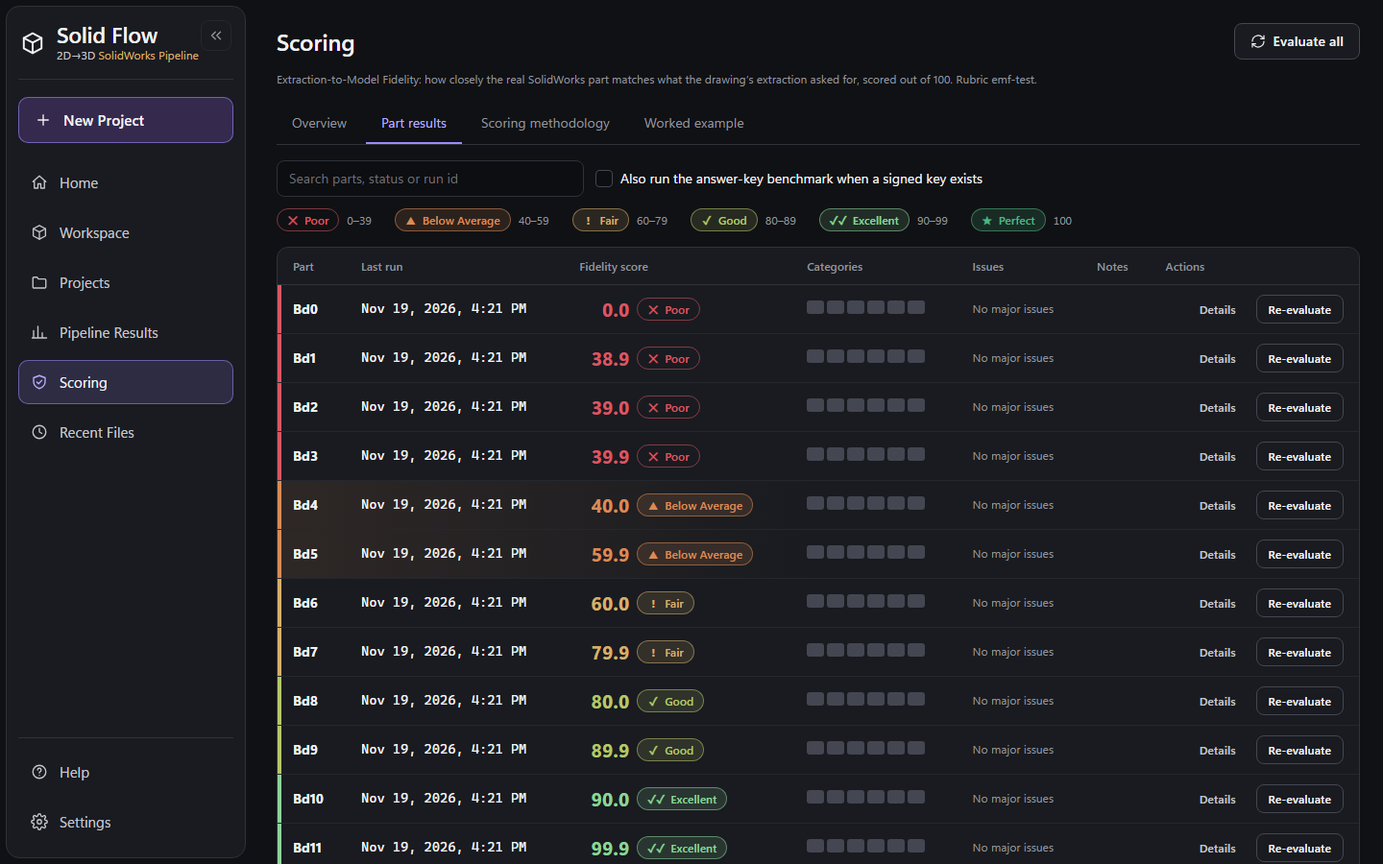
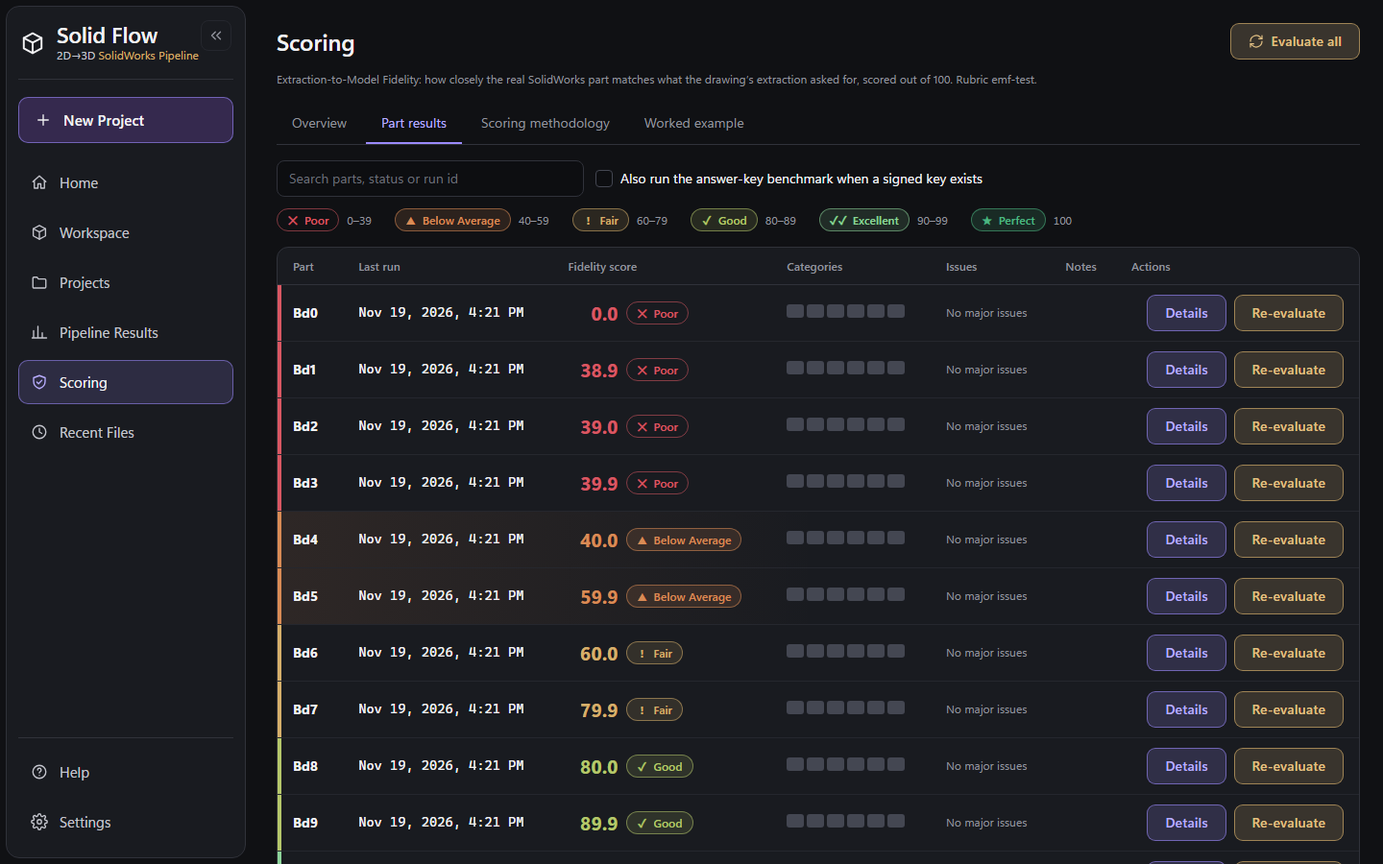
feat(ui): always-fresh UI assets, grade-coloured numbers everywhere, larger violet/gold action buttons
- server: index.html stamps every /static URL with ?v=<fingerprint> and /, /static, /photoapp are sent Cache-Control: no-cache (the likely reason new colours did not show: an old cached stylesheet)
- Scoring overview numbers (parts scored, average, need attention, not scored), worked-example scores and credit-curve values now take grade colours
- Open / Open in Workspace / Results / Details / Evaluate / Re-evaluate / Evaluate all: larger (38px), violet (Open, Details) and champagne-gold tint (Results, Evaluate) with a small hover lift
- a11y: file-presence chips now AA; unavailable-preview button name contains its visible text
- tests: server stale-UI test; browser 28-v4-buttons-and-number-colour (4); Projects order test waits for the cards

diff --git a/FINAL_UI/tests/e2e/tests/28-v4-buttons-and-number-colour.spec.ts b/FINAL_UI/tests/e2e/tests/28-v4-buttons-and-number-colour.spec.ts
@@ -1,0 +1,131 @@
+import { test, expect } from '@playwright/test';
+import AxeBuilder from '@axe-core/playwright';
+import * as fs from 'fs';
+import * as path from 'path';
+import { STAGE2_OUT, uniq } from '../helpers/stage3';
+
+test.skip(!STAGE2_OUT, 'STAGE2_OUT not set: start the server with MCAGENT_FINAL_OUTPUTS=$STAGE2_OUT and export STAGE2_OUT');
+
+const VERIFY = path.resolve(__dirname, '../../../docs/verification/v4');
+const serious = (res: any) => res.violations.filter((v: any) => v.impact === 'serious' || v.impact === 'critical');
+const shot = async (page: any, name: string) => { fs.mkdirSync(VERIFY, { recursive: true }); await page.screenshot({ path: path.join(VERIFY, name) }); };
+const GRADE_RGB = ['rgb(217, 87, 99)', 'rgb(217, 139, 85)', 'rgb(214, 175, 107)', 'rgb(181, 199, 107)', 'rgb(141, 212, 154)', 'rgb(76, 183, 130)'];
+const NEUTRAL = 'rgb(146, 148, 158)';
+const WHITE_TEXT = 'rgb(242, 242, 244)';
+
+function row(part: string, score: number | null, state = 'scored') {
+  return { part, session: '', has_output: true, has_part: true, run_id: 'run_x', last_activity: 1795123302, state, score, reason: state === 'incomplete' ? 'no_mesh' : undefined, counts: { critical: part === 'P6' ? 1 : 0, high: 0 },
+    categories: {}, evaluated_at: '2026-11-25T10:00:00+00:00', fingerprint: 'emf-test', coverage: 1, caps: [], top_issue: 'A mocked issue message' };
+}
+async function mockScoring(page: any, rows: any[]) {
+  const scored = rows.filter((r) => r.state === 'scored' && r.score !== null);
+  await page.route('**/api/scoring', (route: any) => route.fulfill({ json: { version: 'emf-test', rubric: 'Extraction-to-Model Fidelity', bands: [], parts: rows,
+    summary: { parts: rows.length, scored: scored.length, average: scored.reduce((a: number, r: any) => a + r.score, 0) / Math.max(1, scored.length), distribution: {}, incomplete: rows.filter((r) => r.state === 'incomplete').length,
+      no_model: 0, scoring_failed: 0, pending: 0, parts_with_critical: 1 } } }));
+}
+async function boot(page: any, request: any) {
+  const session = (await (await request.post('/api/session')).json()).session as string;
+  await page.goto('/#/home');
+  await page.waitForFunction(() => !!(window as any).McA);
+  await page.evaluate((sid: string) => (window as any).McA.persist.set((window as any).McA.persist.KEYS.session, sid), session);
+  return session;
+}
+const colour = (loc: any) => loc.evaluate((e: HTMLElement) => getComputedStyle(e).color);
+
+test.describe('v4: numbers and buttons', () => {
+  test('84 every number on the Scoring overview takes a grade colour, and so do the worked-example scores and the credit curve', async ({ page, request }) => {
+    await page.setViewportSize({ width: 1440, height: 900 });
+    await mockScoring(page, [row('P1', 100), row('P2', 95), row('P3', 85), row('P4', 65), row('P5', 45), row('P6', 10), row('P7', null, 'incomplete')]);
+    await boot(page, request);
+    await page.goto('/#/scoring'); await page.reload();
+    const stats = page.locator('.sc-stat .sc-stat-v');
+    await expect(stats).toHaveCount(5, { timeout: 15_000 });
+    for (let i = 0; i < 4; i++) {
+      const c = await colour(stats.nth(i));
+      expect(c, `overview number ${i}`).not.toBe(WHITE_TEXT);                                        // never plain white
+      expect([...GRADE_RGB, NEUTRAL], `overview number ${i}`).toContain(c);
+    }
+    await expect(page.locator('.sc-attn li .sc-score-n').first()).toBeVisible();
+    for (const c of await page.locator('.sc-attn li .sc-score-n').evaluateAll((els) => els.map((e) => getComputedStyle(e).color))) expect(GRADE_RGB).toContain(c);
+    await shot(page, 'overview-numbers-1440x900.png');
+    await page.getByRole('tab', { name: 'Worked example' }).click();
+    const scores = page.locator('.sc-example .sc-ex-s');
+    await expect(scores).toHaveCount(6, { timeout: 15_000 });
+    for (const c of await scores.evaluateAll((els) => els.map((e) => getComputedStyle(e).color))) expect(GRADE_RGB).toContain(c);
+    for (const c of await page.locator('.sc-example .cr').evaluateAll((els) => els.map((e) => getComputedStyle(e).color))) expect(GRADE_RGB).toContain(c);
+    await shot(page, 'example-numbers-1440x900.png');
+    await page.getByRole('tab', { name: 'Scoring methodology' }).click();
+    const curve = page.locator('.sc-method .cr-curve');
+    await expect(curve).toHaveCount(6, { timeout: 15_000 });
+    for (const c of await curve.evaluateAll((els) => els.map((e) => getComputedStyle(e).color))) expect(GRADE_RGB).toContain(c);
+    expect(serious(await new AxeBuilder({ page }).include('#page-scoring').analyze())).toEqual([]);
+  });
+
+  test('85 the part results table: coloured fidelity scores and larger Details / Re-evaluate buttons that stand out', async ({ page, request }) => {
+    await page.setViewportSize({ width: 1440, height: 900 });
+    await mockScoring(page, [row('P1', 93.4), row('P2', 43.6), row('P3', 70.3)]);
+    await boot(page, request);
+    await page.goto('/#/scoring'); await page.reload();
+    await page.getByRole('tab', { name: 'Part results' }).click();
+    const tr = page.locator('.sc-tbl tr', { has: page.locator('strong', { hasText: /^P1$/ }) });
+    await expect(tr.locator('.sc-score-n')).toHaveText('93.4');
+    expect(GRADE_RGB).toContain(await colour(tr.locator('.sc-score-n')));
+    const details = tr.getByRole('button', { name: 'Details' }), evalBtn = tr.getByRole('button', { name: 'Re-evaluate' });
+    for (const b of [details, evalBtn]) {
+      const box = (await b.boundingBox())!;
+      expect(box.height, 'larger than the old 30px small button').toBeGreaterThanOrEqual(38);
+      const bg = await b.evaluate((e: HTMLElement) => getComputedStyle(e).backgroundColor);
+      expect(bg).not.toBe('rgba(0, 0, 0, 0)');
+    }
+    // Details is violet, Re-evaluate is champagne gold: same families as Save part and Run Pipeline
+    expect(await colour(details)).not.toBe(await colour(evalBtn));
+    const bd = await details.evaluate((e: HTMLElement) => getComputedStyle(e).borderTopColor), be = await evalBtn.evaluate((e: HTMLElement) => getComputedStyle(e).borderTopColor);
+    expect(bd).not.toBe(be);                                                                              // two different tinted borders (violet and gold), not the plain grey outline
+    for (const b of [bd, be]) expect(b).not.toMatch(/rgba?\(4[0-9], 5[0-9], 6[0-9]\)|rgb\(68, 71, 82\)/);
+    expect(bd).toMatch(/srgb 0\.6/);                                                                      // the violet family (#9B8AFB at 60%)
+    expect(be).toMatch(/srgb 0\.8/);                                                                      // the gold family (#D6AF6B at 65%)
+    await details.hover();
+    await expect(details).toHaveCSS('transform', /matrix/);                                              // a small lift on hover
+    await shot(page, 'results-buttons-1440x900.png');
+    expect(serious(await new AxeBuilder({ page }).include('#page-scoring').analyze())).toEqual([]);
+  });
+
+  test('86 Projects: Open is solid violet like Save part, Results is gold-tinted, both larger; Details and Evaluate-all match', async ({ page, request }) => {
+    await page.setViewportSize({ width: 1440, height: 900 });
+    const part = 'Bt' + uniq();
+    const session = await boot(page, request);
+    await request.post('/api/parts', { multipart: { session, part, original: { name: 'd.pdf', mimeType: 'application/pdf', buffer: Buffer.from('%PDF-1.4 x') } } });
+    const out = path.join(STAGE2_OUT, part); fs.mkdirSync(out, { recursive: true });
+    fs.writeFileSync(path.join(out, `${part}_extraction.json`), JSON.stringify({ units: 'inch', features: [], dimensions: [], hole_callouts: [] }));
+    await page.goto('/#/projects'); await page.reload();
+    const card = page.locator('#proj-body .pcard', { has: page.locator('.pcard-n', { hasText: new RegExp('^' + part + '$') }) });
+    const open = card.getByRole('button', { name: 'Open', exact: true }), results = card.getByRole('button', { name: 'Results', exact: true });
+    await expect(open).toBeVisible({ timeout: 15_000 });
+    await expect(results).toBeVisible();
+    expect((await open.boundingBox())!.height).toBeGreaterThanOrEqual(38);
+    expect((await results.boundingBox())!.height).toBeGreaterThanOrEqual(38);
+    expect(await open.evaluate((e: HTMLElement) => getComputedStyle(e).backgroundColor)).toBe('rgb(155, 138, 251)');          // the theme violet
+    const rb = await results.evaluate((e: HTMLElement) => getComputedStyle(e).backgroundColor);
+    expect(rb).not.toBe('rgba(0, 0, 0, 0)');
+    expect(await colour(results)).toMatch(/rgb\(2[0-9]{2}, 1[0-9]{2}, 1[0-9]{2}\)/);                                            // gold text
+    await shot(page, 'projects-buttons-1440x900.png');
+    await page.goto('/#/scoring');
+    const all = page.locator('#sc-eval-all');
+    expect((await all.boundingBox())!.height).toBeGreaterThanOrEqual(38);
+    await page.goto('/#/projects');
+    expect(serious(await new AxeBuilder({ page }).include('#page-projects').analyze())).toEqual([]);
+  });
+
+  test('87 the app always loads the latest scripts and styles: versioned URLs, revalidated, never a stale cached copy', async ({ page, request }) => {
+    await boot(page, request);
+    const html = await (await request.get('/')).text();
+    const urls = html.match(/(?:src|href)="\/static\/[^"]+"/g) || [];
+    expect(urls.length).toBeGreaterThan(20);
+    expect(urls.every((u) => u.includes('?v='))).toBe(true);
+    const css = await request.get('/static/css/pages.css');
+    expect(css.headers()['cache-control']).toBe('no-cache');
+    const loaded = await page.evaluate(() => Array.from(document.querySelectorAll('link[rel=stylesheet], script[src]')).map((e: any) => e.href || e.src).filter((u) => u.includes('/static/')));
+    expect(loaded.length).toBeGreaterThan(20);
+    expect(loaded.every((u: string) => /\?v=[0-9a-f]{10}$/.test(u))).toBe(true);
+  });
+});

diff --git a/FINAL_UI/web/static/js/pages/scoring.js b/FINAL_UI/web/static/js/pages/scoring.js
@@ -82,7 +82,7 @@
     wrap.append(h('div', { class: 'grade-scale', 'aria-hidden': 'true' }, [0, 40, 60, 80, 90, 100].map(function (n) { return h('span', { text: String(n) }); })));
     return wrap;
   }
-  function stat(label, value, sub, tone) { return h('div', { class: 'sc-stat' + (tone ? ' band-' + tone : '') }, h('div', { class: 'sc-stat-l', text: label }), h('div', { class: 'sc-stat-v', text: value }), sub ? h('div', { class: 'sc-stat-s', text: sub }) : null); }
+  function stat(label, value, sub, tone) { return h('div', { class: 'sc-stat' + (tone ? ' band-' + tone : '') }, h('div', { class: 'sc-stat-l', text: label }), h('div', { class: 'sc-stat-v' + (tone ? ' grade-num band-' + tone : ''), text: value }), sub ? h('div', { class: 'sc-stat-s', text: sub }) : null); }
   function scoreChip(row) {
     var s = SV.statusOf(row);
     if (row.state !== 'scored' || !G.valid(row.score)) return h('span', { class: 'sc-score-none', text: SV.DASH, title: s.label });
@@ -110,10 +110,10 @@
     var attention = SV.byAttention((o.parts || []).filter(function (r) { return r.has_output; })).filter(function (r) { return r.score < 90 || (r.counts && r.counts.critical); }).slice(0, 8);
     var wrap = h('div', null,
       h('div', { class: 'sc-stats' },
-        stat('Parts scored', String(s.scored || 0), 'of ' + (s.parts || 0) + ' with output'),
+        stat('Parts scored', String(s.scored || 0), 'of ' + (s.parts || 0) + ' with output', s.parts ? SV.gradeOf(Math.floor(100 * (s.scored || 0) / s.parts)).id : 'none'),
         stat('Average fidelity', SV.avgText(s.average), s.scored ? avgB.label : 'no scored parts yet', s.scored ? avgB.id : 'none'),
-        stat('Need attention', String(weak), 'scored below 60 \u00b7 ' + (s.parts_with_critical || 0) + ' with a critical issue', weak ? 'poor' : 'none'),
-        stat('Not scored', String((s.incomplete || 0) + (s.no_model || 0) + (s.pending || 0) + (s.scoring_failed || 0)), (s.pending || 0) + ' pending · ' + (s.incomplete || 0) + ' incomplete · ' + (s.no_model || 0) + ' no part' + (s.scoring_failed ? ' · ' + s.scoring_failed + ' failed' : '')),
+        stat('Need attention', String(weak), 'scored below 60 \u00b7 ' + (s.parts_with_critical || 0) + ' with a critical issue', s.scored ? SV.gradeOf(Math.floor(100 * (s.scored - weak) / s.scored)).id : 'none'),
+        stat('Not scored', String((s.incomplete || 0) + (s.no_model || 0) + (s.pending || 0) + (s.scoring_failed || 0)), (s.pending || 0) + ' pending · ' + (s.incomplete || 0) + ' incomplete · ' + (s.no_model || 0) + ' no part' + (s.scoring_failed ? ' \u00b7 ' + s.scoring_failed + ' failed' : ''), (s.incomplete || 0) + (s.no_model || 0) + (s.pending || 0) + (s.scoring_failed || 0) ? 'none' : 'perfect'),
         stat('Rubric', o.version || SV.DASH, o.rubric || '')),
       h('p', { class: 'sc-note', text: 'The score grades what the drawing’s extraction asked for against the real SolidWorks part. It needs no answer key and costs nothing to run.' }));
     var dist = SV.distribution(eligible);
@@ -130,7 +130,7 @@
     else wrap.append(h('ul', { class: 'sc-attn' }, attention.map(function (r) {
       return h('li', { class: 'band-' + SV.gradeOf(r.score).id }, h('div', { class: 'sc-attn-h' }, h('strong', { text: r.part }), scoreChip(r), issueBadges(r.counts)),
         r.top_issue ? h('p', { class: 'sc-attn-t', text: r.top_issue }) : null,
-        h('button', { class: 'btn ghost sm', type: 'button', text: 'Details', onclick: function () { openDetail(r.part); } }));
+        h('button', { class: 'btn act act-violet', type: 'button', text: 'Details', onclick: function () { openDetail(r.part); } }));
     })));
     return wrap;
   }
@@ -148,7 +148,7 @@
     if (!rows.length) { wrap.append(empty('search', (o.parts || []).length ? 'No matches' : 'No parts yet', (o.parts || []).length ? 'No part matches that search.' : 'Parts appear here once they are created and run.')); return wrap; }
     var body = rows.map(function (r) {
       var bs = s.batch && s.batch.results ? s.batch.results[r.part] : undefined, status = SV.statusOf(r, bs), block = SV.evalBlocker(r);
-      var evalBtn = h('button', { class: 'btn secondary sm', type: 'button', text: st.busy[r.part] ? 'Scoring…' : (r.state === 'pending' || r.state === 'no_output' ? 'Evaluate' : 'Re-evaluate'), disabled: (block || st.busy[r.part]) ? 'disabled' : null, title: block || '' });
+      var evalBtn = h('button', { class: 'btn act act-gold', type: 'button', text: st.busy[r.part] ? 'Scoring…' : (r.state === 'pending' || r.state === 'no_output' ? 'Evaluate' : 'Re-evaluate'), disabled: (block || st.busy[r.part]) ? 'disabled' : null, title: block || '' });
       evalBtn.addEventListener('click', function () { evaluate([r.part]); });
       return h('tr', { 'data-part': r.part, 'data-state': r.state, 'data-band': status.kind === 'scored' ? SV.gradeOf(r.score).id : 'none' },
         h('td', null, h('strong', { text: r.part })),
@@ -157,7 +157,7 @@
         h('td', null, status.kind === 'scored' ? catStrip(r) : h('span', { class: 'reason', text: SV.DASH })),
         h('td', null, h('div', { class: 'sc-badges' }, r.counts ? issueBadges(r.counts) : [h('span', { class: 'reason', text: SV.DASH })])),
         h('td', null, r.stale_rubric ? pill('amber', '!', 'Rubric changed', 'is-quiet') : null, r.benchmark && r.benchmark.state === 'scored' ? h('span', { class: 'badge-c', title: 'Answer-key benchmark score', text: 'Benchmark ' + r.benchmark.score.toFixed(0) }) : null),
-        h('td', null, h('div', { class: 'acts' }, h('button', { class: 'btn ghost sm', type: 'button', text: 'Details', onclick: function () { openDetail(r.part); } }), evalBtn)));
+        h('td', null, h('div', { class: 'acts' }, h('button', { class: 'btn act act-violet', type: 'button', text: 'Details', onclick: function () { openDetail(r.part); } }), evalBtn)));
     });
     wrap.append(h('div', { class: 'tbl-wrap' }, h('table', { class: 'tbl sc-tbl' }, h('caption', { class: 'sr-only', text: 'Part results' }),
       h('thead', null, h('tr', null, ['Part', 'Last run', 'Fidelity score', 'Categories', 'Issues', 'Notes', 'Actions'].map(function (t) { return h('th', { scope: 'col', text: t }); }))), h('tbody', null, body))));
@@ -205,7 +205,7 @@
     if (!d) { wrap.append(h('p', { class: 'reason', text: 'Loading the stored evaluation…' })); return wrap; }
     if (d.error) { wrap.append(h('div', { class: 'banner is-err', role: 'alert' }, McA.icons.get('warn', 18), 'Could not load the evaluation: ' + d.error)); return wrap; }
     var rec = d.latest, row = ((st.ov && st.ov.parts) || []).filter(function (r) { return r.part === part; })[0] || {};
-    var evalBtn = h('button', { class: 'btn secondary sm', type: 'button', text: st.busy[part] ? 'Scoring…' : (rec ? 'Re-evaluate' : 'Evaluate'), disabled: (!row.has_output || st.busy[part]) ? 'disabled' : null, onclick: function () { evaluate([part]); } });
+    var evalBtn = h('button', { class: 'btn act act-gold', type: 'button', text: st.busy[part] ? 'Scoring…' : (rec ? 'Re-evaluate' : 'Evaluate'), disabled: (!row.has_output || st.busy[part]) ? 'disabled' : null, onclick: function () { evaluate([part]); } });
     if (!rec) { wrap.append(empty('scoring', 'Not evaluated yet', 'Press Evaluate to score this part. Nothing is assumed.'), evalBtn); return wrap; }
     var stt = SV.statusOf({ state: rec.state, reason: rec.reason, score: rec.score });
     var head = h('div', { class: 'sc-head' });
@@ -263,7 +263,7 @@
       tbl('Check weights', ['Category', 'Check', 'Points'], Object.keys(m.integrity_checks).map(function (k) { return h('tr', null, h('td', { text: 'Build integrity' }), h('td', { text: k.replace(/_/g, ' ') }), h('td', { class: 'num', text: String(m.integrity_checks[k]) })); })
         .concat(Object.keys(m.trust_checks).map(function (k) { return h('tr', null, h('td', { text: 'Extraction reliability' }), h('td', { text: k.replace(/_/g, ' ') }), h('td', { class: 'num', text: String(m.trust_checks[k]) })); }))),
       h('h3', { class: 'sec-h', text: 'Credit within and past tolerance (e = error / tolerance)' }),
-      tbl('Credit curve', ['e', 'Credit'], m.credit_curve.map(function (c) { return h('tr', null, h('td', { class: 'num', text: String(c.e) }), h('td', { class: 'num', text: c.credit.toFixed(3) })); })),
+      tbl('Credit curve', ['e', 'Credit'], m.credit_curve.map(function (c) { var cg = G.gradeOfCredit(c.credit); return h('tr', null, h('td', { class: 'num', text: String(c.e) }), h('td', { class: 'num' }, h('span', { class: 'cr-curve band-' + cg.id, text: G.format(c.credit, 3) }))); })),
       h('h3', { class: 'sec-h', text: 'Feature importance (Feature coverage)' }),
       tbl('Tier weights', ['Feature type', 'Weight'], Object.keys(m.tiers).map(function (k) { return h('tr', null, h('td', { text: k.replace(/_/g, ' ') }), h('td', { class: 'num', text: String(m.tiers[k]) })); })),
       h('h3', { class: 'sec-h', text: 'Gates, tolerances and thresholds' }),

diff --git a/FINAL_UI/web/static/css/pages.css b/FINAL_UI/web/static/css/pages.css
@@ -60,8 +60,8 @@
 .tbl .acts { display: flex; gap: var(--sp-2); justify-content: flex-end; white-space: nowrap; }
 .tbl .num { font-family: var(--mono); }
 .pres { display: inline-flex; gap: 4px; flex-wrap: wrap; }
-.pres .p { font-size: var(--fs-caption); padding: 1px 6px; border-radius: var(--r-sm); border: 1px solid var(--line); color: var(--ink-4); }
-.pres .p.on { color: var(--ok-text); border-color: color-mix(in srgb, var(--ok) 40%, transparent); }
+.pres .p { font-size: var(--fs-caption); padding: 1px 6px; border-radius: var(--r-sm); border: 1px dashed var(--line-strong); color: var(--ink-3); }   /* absent: dashed outline, still AA-readable (ink-4 was 3.4:1) */
+.pres .p.on { color: var(--ok-text); border-style: solid; border-color: color-mix(in srgb, var(--ok) 40%, transparent); }
 .banner { display: flex; gap: var(--sp-3); align-items: center; padding: var(--sp-3) var(--sp-4); border: 1px solid var(--line-strong); border-radius: var(--r-md); background: var(--surface); margin-bottom: var(--sp-4); }
 .banner.is-err { border-color: color-mix(in srgb, var(--err) 55%, transparent); color: var(--err-text); }
 
@@ -287,3 +287,26 @@
 #hdr-score .chip-g { color: var(--b); font-size: 12px; }
 #hdr-score[data-grade="none"] .chip-v { color: var(--grade-none); }
 #hdr-score:focus-visible { outline: 2px solid var(--accent); outline-offset: 2px; }
+
+/* ── v4: action buttons that pop (Open, Results, Details, Evaluate, Re-evaluate) ──────────────────────────────────── */
+.btn.act { min-height: 38px; padding: 0 18px; font-size: 14px; font-weight: 600; letter-spacing: .01em; border-radius: 9px; border: 1px solid transparent;
+  transition: background .15s ease, border-color .15s ease, transform .12s ease, box-shadow .15s ease; }
+.btn.act svg { width: 16px; height: 16px; }
+.btn.act:hover:not(:disabled):not([aria-disabled="true"]) { transform: translateY(-1px); box-shadow: 0 2px 8px rgba(0,0,0,.35); }
+.btn.act:active:not(:disabled) { transform: none; box-shadow: none; }
+.btn.act:focus-visible { outline: 2px solid var(--accent-bright); outline-offset: 2px; }
+/* Open: solid violet, like Save part */
+.btn.act-open { background: var(--accent); color: #101114; border-color: var(--accent); }
+.btn.act-open:hover:not(:disabled):not([aria-disabled="true"]) { background: var(--accent-bright); border-color: var(--accent-bright); }
+/* Details: violet tint with a violet border */
+.btn.act-violet { background: color-mix(in srgb, var(--accent) 18%, var(--surface)); color: var(--accent-text); border-color: color-mix(in srgb, var(--accent) 60%, transparent); }
+.btn.act-violet:hover:not(:disabled):not([aria-disabled="true"]) { background: color-mix(in srgb, var(--accent) 30%, var(--surface)); border-color: var(--accent); color: #fff; }
+/* Results, Evaluate, Re-evaluate: champagne-gold tint, in the Run Pipeline family but quieter so it never competes with the one gold call to action */
+.btn.act-gold { background: color-mix(in srgb, var(--gold) 17%, var(--surface)); color: var(--gold-bright); border-color: color-mix(in srgb, var(--gold) 65%, transparent); }
+.btn.act-gold:hover:not(:disabled):not([aria-disabled="true"]) { background: color-mix(in srgb, var(--gold) 30%, var(--surface)); border-color: var(--gold); color: #fff3d6; }
+.btn.act:disabled, .btn.act[aria-disabled="true"] { opacity: .45; transform: none; box-shadow: none; }
+.acts { gap: var(--sp-2); }
+.pcard-a .btn.act { flex: 1 1 auto; justify-content: center; }
+/* overview numbers carry their grade colour */
+.sc-stat-v.grade-num, .sc-stat-v[class*="band-"] { color: var(--b); }
+.cr-curve { font-weight: 700; font-variant-numeric: tabular-nums; color: var(--b); }

diff --git a/FINAL_UI/web/static/js/pages/projects.js b/FINAL_UI/web/static/js/pages/projects.js
@@ -29,6 +29,7 @@
       if (tried >= urls.length) {
         th.classList.remove('is-loading'); th.setAttribute('data-state', 'unavailable');
         th.replaceChildren(McA.icons.get('file', 30), h('span', { class: 'pcard-nopv', text: 'Preview unavailable' }));
+        th.setAttribute('aria-label', 'Preview unavailable. Open ' + p.name);        // the accessible name must contain the visible text
         return;
       }
       var img = h('img', { alt: 'Drawing preview of ' + p.name, decoding: 'async' });
@@ -59,8 +60,8 @@
         p.has_overview ? h('span', { class: 'badge-c', text: 'Overview' }) : null, p.has_marked ? h('span', { class: 'badge-c', text: 'Marked' }) : null,
         p.source_format ? h('span', { class: 'badge-c mono', text: String(p.source_format).toUpperCase() }) : null),
       h('div', { class: 'pcard-a' },
-        h('button', { class: 'btn sm', type: 'button', text: 'Open', onclick: function () { McA.openPart(sess, p.name); } }),
-        p.has_output ? h('button', { class: 'btn secondary sm', type: 'button', text: 'Results', onclick: function () { McA.openPart(sess, p.name, 'results'); } }) : null)));
+        h('button', { class: 'btn act act-open', type: 'button', text: 'Open', onclick: function () { McA.openPart(sess, p.name); } }),
+        p.has_output ? h('button', { class: 'btn act act-gold', type: 'button', text: 'Results', onclick: function () { McA.openPart(sess, p.name, 'results'); } }) : null)));
   }
   function runsTable(runs) {
     var keys = [['extraction', 'Extraction'], ['build_plan', 'Plan'], ['macros', 'VBA'], ['sldprt', 'SLDPRT'], ['stl', 'STL']];
@@ -72,8 +73,8 @@
         h('td', null, McA.scorecache ? McA.scorecache.badge(McA.scorecache.get(r.part)) : null),
         h('td', null, h('span', { class: 'pres', 'aria-label': 'Files present' }, keys.map(function (k) { return h('span', { class: 'p' + (pres[k[0]] ? ' on' : ''), title: pres[k[0]] ? 'Present' : 'Not present', text: k[1] }); }))),
         h('td', null, h('div', { class: 'acts' },
-          h('button', { class: 'btn secondary sm', type: 'button', text: 'Open', onclick: function () { McA.openPart(r.session, r.part); } }),
-          h('button', { class: 'btn ghost sm', type: 'button', text: 'Results', onclick: function () { McA.router.go('results', { run: r.session + '|' + r.part }); } }))));
+          h('button', { class: 'btn act act-open', type: 'button', text: 'Open', onclick: function () { McA.openPart(r.session, r.part); } }),
+          h('button', { class: 'btn act act-gold', type: 'button', text: 'Results', onclick: function () { McA.router.go('results', { run: r.session + '|' + r.part }); } }))));
     });
     return h('div', { class: 'tbl-wrap' }, h('table', { class: 'tbl' },
       h('caption', { class: 'sr-only', text: 'All runs' }),

diff --git a/FINAL_UI/web/static/js/pages/recent.js b/FINAL_UI/web/static/js/pages/recent.js
@@ -22,8 +22,8 @@
         h('td', null, h('strong', { text: r.part })),
         h('td', { class: 'num', text: r.timestamp || McA.dom.fmtTime(r.epoch) }),
         h('td', null, h('div', { class: 'acts' },
-          h('button', { class: 'btn secondary sm', type: 'button', text: 'Open in Workspace', onclick: function () { McA.openPart(r.session, r.part); } }),
-          h('button', { class: 'btn ghost sm', type: 'button', text: 'Open results', onclick: function () { McA.openPart(r.session, r.part, 'results'); } }),
+          h('button', { class: 'btn act act-open', type: 'button', text: 'Open in Workspace', onclick: function () { McA.openPart(r.session, r.part); } }),
+          h('button', { class: 'btn act act-gold', type: 'button', text: 'Open results', onclick: function () { McA.openPart(r.session, r.part, 'results'); } }),
           pres.stl ? h('a', { class: 'btn ghost sm', href: McA.api.partStlURL(r.session, r.part), download: r.part + '.stl' }, McA.icons.get('download', 14), 'Download STL') : null)));
     });
     body.append(h('div', { class: 'tbl-wrap' }, h('table', { class: 'tbl' }, h('caption', { class: 'sr-only', text: 'Recent runs, newest first' }),

diff --git a/FINAL_UI/tests/e2e/tests/25-v4-scoring-projects-estimates-batch.spec.ts b/FINAL_UI/tests/e2e/tests/25-v4-scoring-projects-estimates-batch.spec.ts
@@ -118,6 +118,7 @@ test.describe('v4: Projects previews and order', () => {
     expect(res.status()).toBe(200); expect(res.headers()['content-type']).toBe('image/png');
     await shot(page, 'projects-previews-1440x900.png');
     await page.reload();
+    await expect(page.locator('#proj-body .pcard .pcard-n')).toHaveCount(3, { timeout: 15_000 });                 // wait for the cards before reading their order
     const again = await page.locator('#proj-body .pcard .pcard-n').allTextContents();
     expect(again.slice(0, 3)).toEqual(['PrevNew', 'PrevMid', 'PrevOld']);               // order survives a reload
     await card('PrevMid').locator('.pcard-th').click();                                   // clicking the preview opens that project

diff --git a/FINAL_UI/web/index.html b/FINAL_UI/web/index.html
@@ -309,7 +309,7 @@
   <!-- ============ SCORING ============ -->
   <section id="page-scoring" class="page page-scoring" data-page="scoring" hidden>
     <header class="pg-head"><h1 tabindex="-1">Scoring</h1>
-      <div class="pg-actions"><button id="sc-eval-all" class="btn secondary" type="button"><span data-icon="refresh" data-size="16"></span>Evaluate all</button></div>
+      <div class="pg-actions"><button id="sc-eval-all" class="btn act act-gold" type="button"><span data-icon="refresh" data-size="16"></span>Evaluate all</button></div>
     </header>
     <p id="sc-lede" class="reason pg-reason"></p>
     <div id="sc-body"></div>

diff --git a/FINAL_UI/server/app.py b/FINAL_UI/server/app.py
@@ -352,9 +352,36 @@ def _cancel_run(run_id: str) -> None:
         state["lines"].append(f"[cancel error] {type(e).__name__}: {e}")
 
 
+def _ui_version() -> str:
+    """A short fingerprint of every UI file (name, size, mtime): changes whenever any script or stylesheet changes."""
+    import hashlib
+    h = hashlib.sha1()
+    for p in sorted((WEB_DIR / "static").rglob("*")):
+        if p.is_file():
+            st = p.stat()
+            h.update(f"{p.relative_to(WEB_DIR)}{st.st_size}{st.st_mtime_ns}".encode())
+    h.update(str((WEB_DIR / "index.html").stat().st_mtime_ns).encode())
+    return h.hexdigest()[:10]
+
+
+@app.middleware("http")
+async def _always_fresh_ui(request: Request, call_next):
+    """The UI's own scripts and styles are always revalidated (ETag), so a browser can never keep showing an old version of the app
+    next to new data (a heuristically cached old stylesheet made every new colour disappear)."""
+    resp = await call_next(request)
+    p = request.url.path
+    if p == "/" or p.startswith(("/static/", "/photoapp/")) or p in ("/bridge.js", "/pdf.min.js"):
+        resp.headers["Cache-Control"] = "no-cache"
+    return resp
+
+
 @app.get("/")
 def index():
-    return FileResponse(WEB_DIR / "index.html")
+    """index.html with every /static asset URL stamped ?v=<fingerprint>: a changed file is a new URL, never a stale cached copy."""
+    html = (WEB_DIR / "index.html").read_text(encoding="utf-8")
+    ver = _ui_version()
+    html = re.sub(r'((?:src|href)="/static/[^"?]+)"', lambda m: f'{m.group(1)}?v={ver}"', html)
+    return Response(html, media_type="text/html; charset=utf-8", headers={"Cache-Control": "no-cache"})
 
 
 @app.get("/bridge.js")

diff --git a/FINAL_UI/tests/server/test_v4_estimates_scoring_projects.py b/FINAL_UI/tests/server/test_v4_estimates_scoring_projects.py
@@ -417,3 +417,18 @@ def test_many_parallel_pdf_requests_never_crash_the_server_process():
     with ThreadPoolExecutor(max_workers=16) as ex:
         results = list(ex.map(hit, names * 4))
     assert all(a in (200, 204) and b == 200 for a, b in results)
+
+
+def test_the_ui_is_never_served_stale():
+    """Every script and stylesheet URL carries a version stamp and is revalidated, so an old cached stylesheet can never hide new colours."""
+    r = client.get("/")
+    assert r.status_code == 200 and r.headers["cache-control"] == "no-cache"
+    import re as _re
+    tags = _re.findall(r'(?:src|href)="(/static/[^"]+)"', r.text)
+    assert len(tags) > 20 and all("?v=" in t for t in tags)
+    ver = {t.split("?v=")[1] for t in tags}
+    assert len(ver) == 1 and len(next(iter(ver))) == 10
+    for path in ("/static/js/pages/scoring.js", "/static/css/pages.css", "/static/design-tokens.css", "/static/js/logic/grade.js"):
+        g = client.get(path)
+        assert g.status_code == 200 and g.headers["cache-control"] == "no-cache", path
+        assert client.get(path, headers={"If-None-Match": g.headers["etag"]}).status_code == 304      # revalidation is cheap

diff --git a/docs/test-reports/2026-11-25-v4-report.md b/docs/test-reports/2026-11-25-v4-report.md
@@ -115,3 +115,23 @@ Tests: `grade.test.js` 11 (all boundaries 0, 39, 39.99, 40, 59.99, 60, 79.99, 80
 browser `27-v4-grade-spectrum.spec.ts` 7 (exact HEX in the real UI at every boundary, un-rounded display, grey for missing, legend, Projects/Workspace/Results, distribution, narrow layout; axe clean).
 
 Regression after the grading spectrum: UI server 96 passed; UI unit 228 passed + the 3 old missing-fixture failures; full Playwright suite **65 passed, 14 failed, 6 skipped**. 13 of the 14 are the known baseline failures; the 14th alternates between two racy older tests (`22-stage3-flags` keyboard and `23-engineering-markup` test 44, which swallows a seeding error with `.catch(() => '')` and then asserts the session): test 44 passes about one run in three on its own and is unrelated to this change.
+
+## Addendum 4: always-fresh UI, coloured numbers everywhere, action buttons that pop
+
+**"The scores are not colour coded".** The colours were in the code and in every browser test, so the likely cause is a browser keeping an OLD cached stylesheet or script: the server sent the UI files with no cache policy,
+and browsers keep such files for a while without asking again, so new scripts could run next to an old `pages.css`/`design-tokens.css` with no grade colours. Fixed so it cannot recur:
+`index.html` is now served with every `/static/...` URL stamped `?v=<fingerprint of all UI files>` (a changed file is a new URL), and `/`, `/static/*`, `/photoapp/*`, `bridge.js` and `pdf.min.js` are sent with
+`Cache-Control: no-cache` (always revalidated with an ETag, answered 304 when unchanged). A server test and a browser test check both. After updating, one hard refresh (Ctrl+F5) clears any copy cached before this fix.
+
+**More numbers coloured.** Every number on the Scoring overview now takes a grade colour: Parts scored (by the share of parts scored), Average fidelity, Need attention (by the share that is not weak), Not scored (neutral grey, or Perfect when nothing is waiting);
+the worked-example scores and per-category cells, the credit-curve values in the methodology, the attention list scores, the results-table scores. Missing values stay neutral grey.
+
+**Buttons that pop.** Open, Open in Workspace, Results, Details, Evaluate, Re-evaluate and Evaluate all are larger (38 px, was about 30) with weight 600 and a small lift on hover, in the theme families:
+Open is solid violet like Save part, Details is violet-tinted with a violet border, Results and Evaluate/Re-evaluate are champagne-gold tinted with a gold border (quieter than the solid gold Run Pipeline, so Run Pipeline stays the one gold call to action).
+
+Two accessibility defects found by the new axe checks on Projects were fixed: the "file not present" chips were 3.4:1 (now readable with a dashed outline), and the unavailable-preview button's accessible name now contains its visible text.
+
+Tests: server `test_the_ui_is_never_served_stale`; browser `28-v4-buttons-and-number-colour.spec.ts` 4 (overview, example and credit-curve numbers all grade-coloured; results-table buttons at least 38 px, violet and gold borders, hover lift; Projects Open is `rgb(155,138,251)`;
+versioned and revalidated assets); axe clean on Scoring and Projects.
+
+Regression after this change: UI server 97 passed; UI unit 229 passed + the 3 old missing-fixture failures; full Playwright suite 68 passed, 15 failed, 6 skipped: the 13 known baseline failures, plus the two racy older tests noted above (`22-stage3-flags` keyboard), and one of this suite's own tests that read the Projects order before the cards had rendered (fixed: it now waits for the cards, and passes 3 of 3 reruns).

diff --git a/FINAL_UI/README.md b/FINAL_UI/README.md
@@ -90,3 +90,8 @@ colours plus six category accents. Colour is never the only cue: every verdict h
 All 0-100 scores use one grading utility (`web/static/js/logic/grade.js`, tokens `--grade-*`): 0-39 Poor `#D95763`, 40-59 Below Average `#D98B55`, 60-79 Fair `#D6AF6B`,
 80-89 Good `#B5C76B`, 90-99 Excellent `#8DD49A`, 100 Perfect `#4CB782`; missing scores are neutral grey `#92949E`. The colour follows the actual number (99.99 is Excellent and shows
 as 99.9). To change a threshold or colour, edit `grade.js` and the matching `--grade-*` token (a test fails if they differ).
+
+### Always-fresh UI and action buttons (v4)
+
+The server stamps every `/static/...` URL in `index.html` with `?v=<fingerprint>` and sends the UI files with `Cache-Control: no-cache`, so a browser can never run new scripts against an old cached stylesheet. If a colour or
+layout looks old after an update, hard-refresh once (Ctrl+F5). Action buttons use `.btn.act` with `act-open` (solid violet), `act-violet` (violet tint) and `act-gold` (gold tint).

diff --git a/FINAL_UI/docs/PROGRESS.md b/FINAL_UI/docs/PROGRESS.md
@@ -157,3 +157,8 @@ code chips, category accents). Tests: planview 8, resulttone 6, browser `26-v4-c
 
 Added `logic/grade.js` + `--grade-*` tokens and moved the Scoring tab, Projects (badge + Score column), a new Workspace header "Fidelity score" chip and Pipeline Results (fidelity section, graded
 macro-readiness style metrics) onto it. Fixed thresholds, no rounding up, neutral grey for missing, Poor has no fill (AA). Also serialised server-side PyMuPDF calls (crash under parallel PDF requests).
+
+### 2026-11-25 (last): always-fresh UI, coloured numbers, action buttons
+
+Versioned asset URLs and `no-cache` headers (the likely reason new colours did not show), every overview/example/credit-curve number graded, larger violet/gold action buttons (Open, Results, Details, Evaluate, Re-evaluate),
+two Projects accessibility fixes. Tests: server stale-UI test, browser `28-v4-buttons-and-number-colour` 4.
